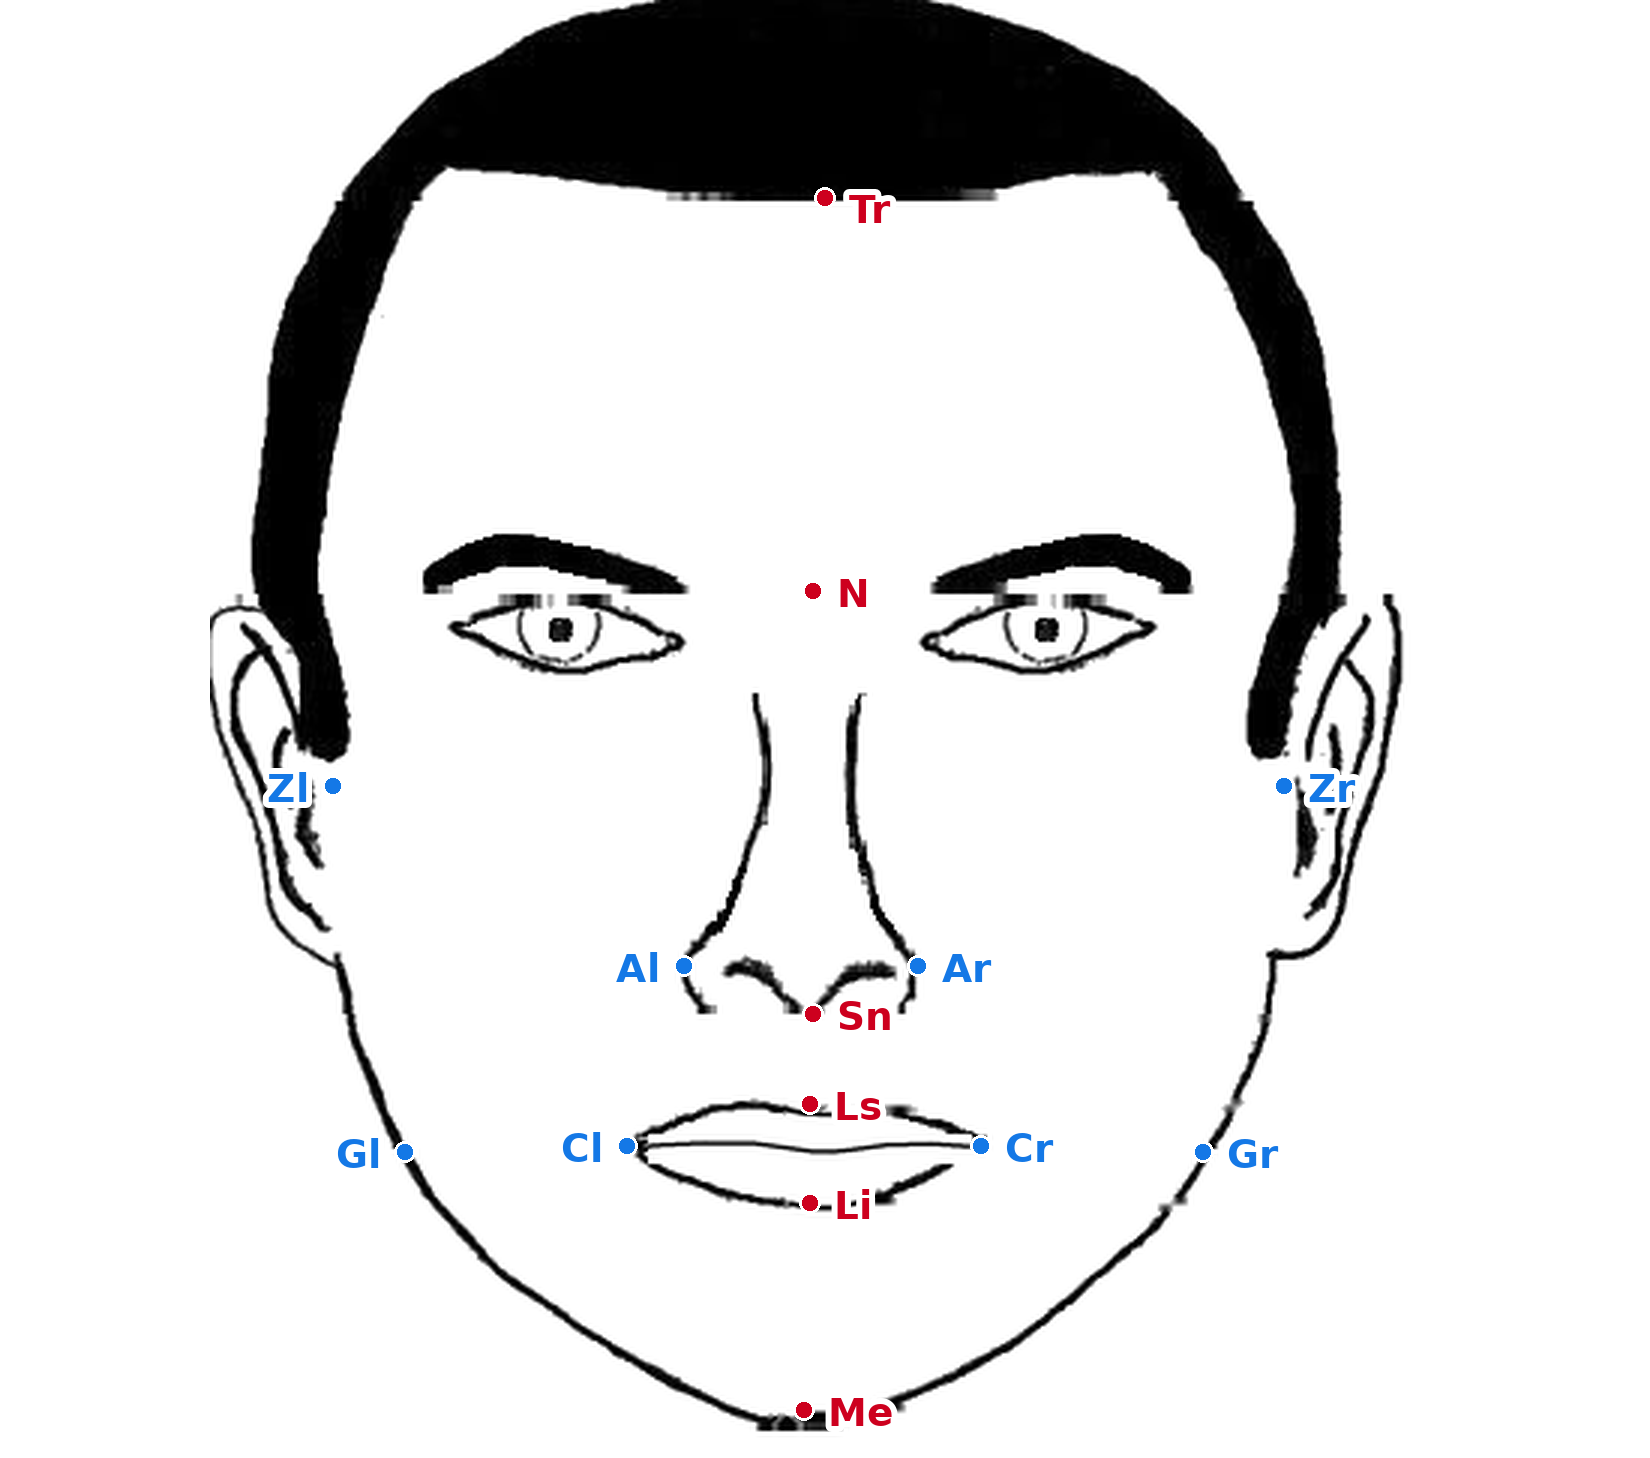
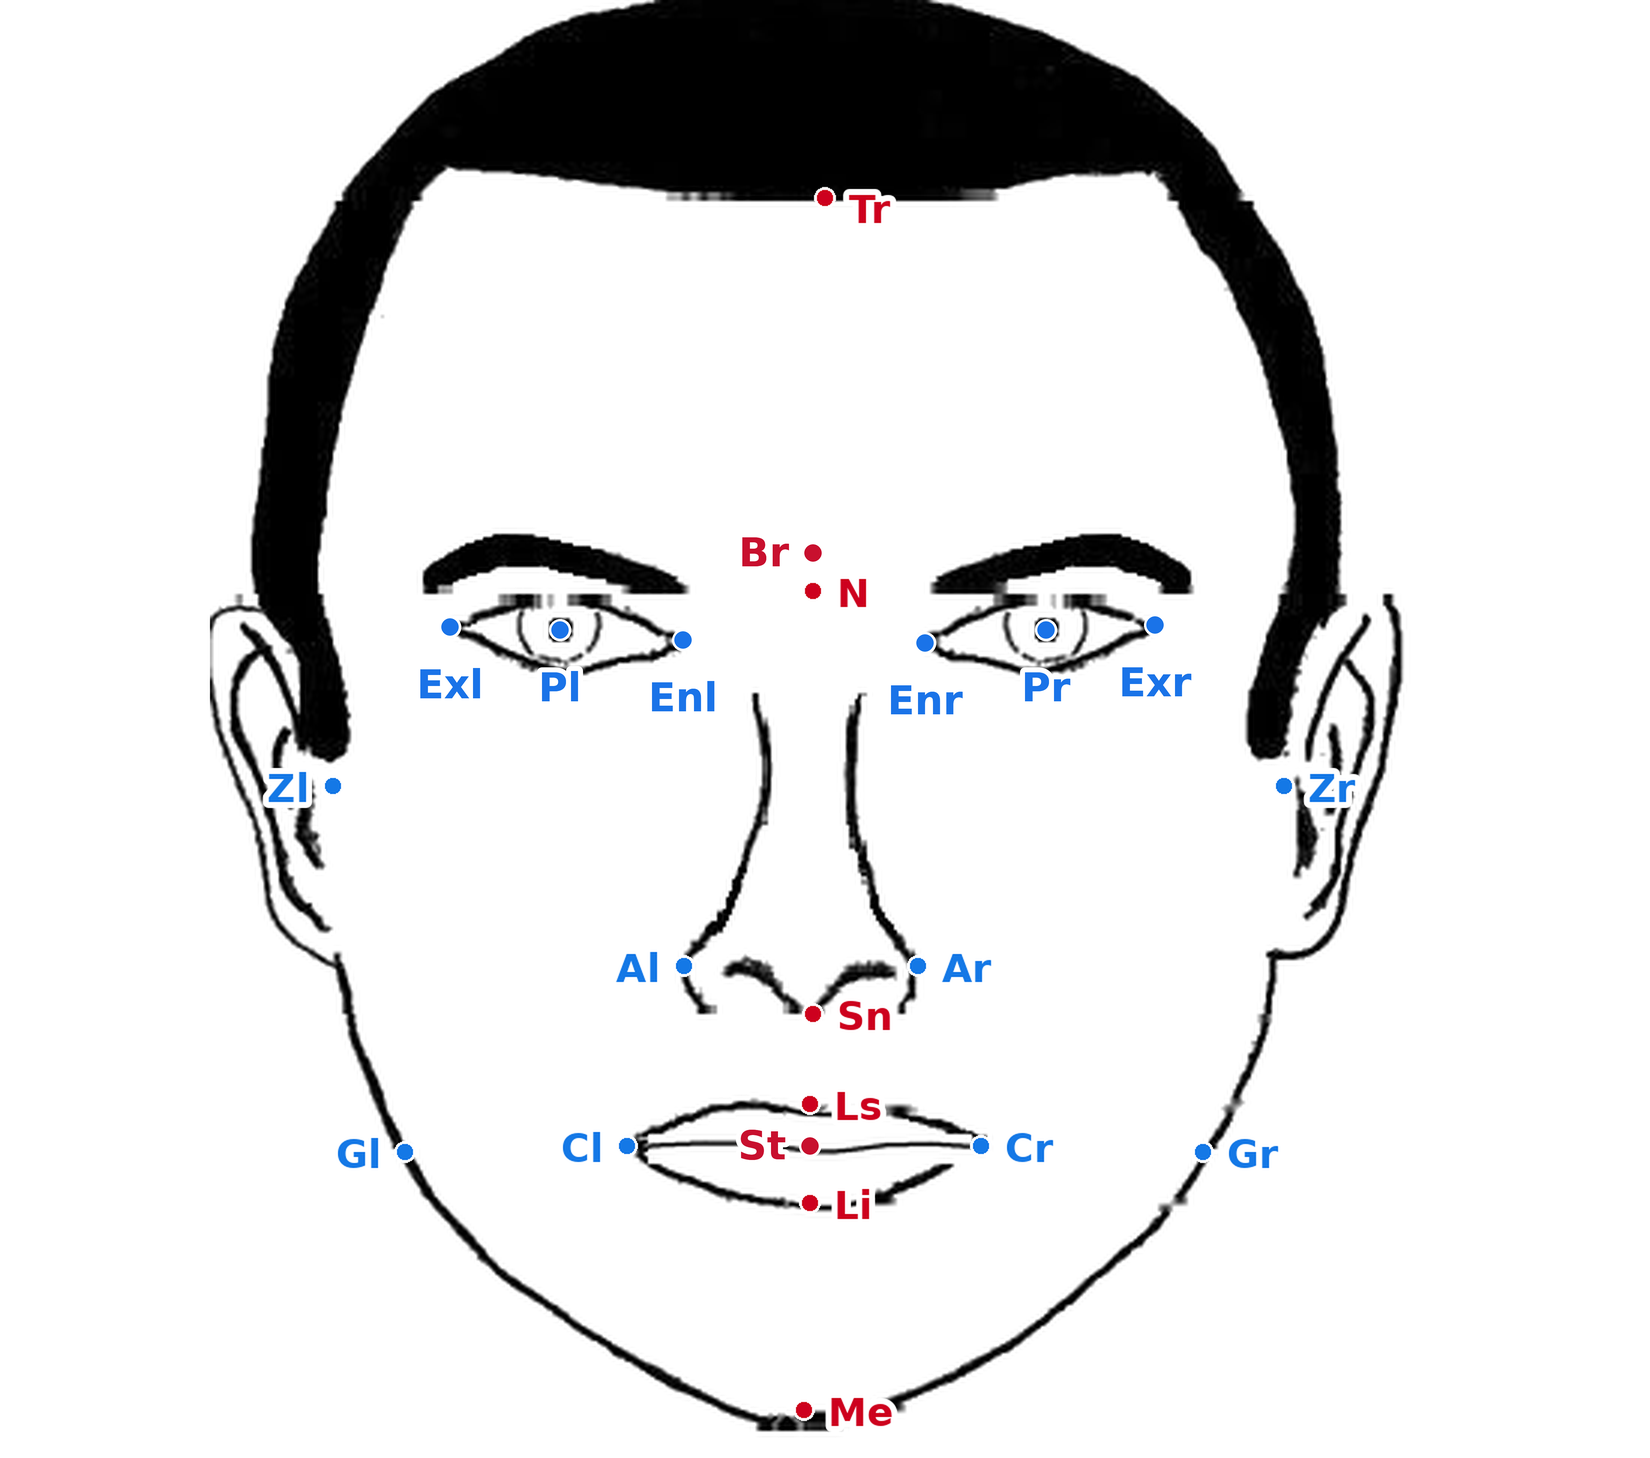
Add files via upload

diff --git a/tool.html b/tool.html
@@ -279,7 +279,6 @@ html[dir=rtl] .lm-side{direction:rtl}
   <section id="step2" aria-live="polite">
     <div class="tool-eyebrow" data-i18n="s2_eyebrow">Step 2 · Landmarks</div>
     <h2 class="tool-title" data-i18n="tool_step_adjust_title">Confirm The Landmarks</h2>
-    <p class="tool-text" style="margin-bottom:22px" data-i18n="s2_text"></p>
     <figure class="lm-ref" id="lmRef">
       <div class="lm-ref-main" id="lmRefSvg"></div>
     </figure>
@@ -310,7 +309,6 @@ html[dir=rtl] .lm-side{direction:rtl}
         </div>
       </div>
     </div>
-    <p class="lm-note" style="margin-top:12px" data-i18n="s2_keys_tip"></p>
     <div class="lm-progress" id="lmProgress"></div>
     <div class="tool-nav">
       <button class="btn-ghost" type="button" id="s2Back" data-i18n="tool_back">← Back</button>
@@ -898,31 +896,19 @@ function draw() {
   });
 }
 
-/* reference diagram: a schematic face with all 22 points; the selected one is highlighted */
-const REFPT = { Tr: [150, 56], Br: [150, 113], N: [150, 134], Sn: [150, 234], Ls: [150, 252], St: [150, 261], Li: [150, 271], Me: [150, 334],
-  Pl: [117, 147], Pr: [183, 147], Enl: [133, 148], Enr: [167, 148], Exl: [100, 144], Exr: [200, 144],
-  Zl: [58, 165], Zr: [242, 165], Gl: [80, 270], Gr: [220, 270], Cl: [122, 261], Cr: [178, 261], Al: [133, 223], Ar: [167, 223] };
-const REFLBL = { Tr: [158, 59, 'start'], Br: [158, 116, 'start'], N: [150, 128, 'middle'], Sn: [158, 239, 'start'], Ls: [158, 251, 'start'], St: [158, 263, 'start'], Li: [158, 275, 'start'], Me: [150, 350, 'middle'],
-  Pl: [117, 161, 'middle'], Pr: [183, 161, 'middle'], Enl: [133, 141, 'middle'], Enr: [167, 141, 'middle'], Exl: [93, 147, 'end'], Exr: [207, 147, 'start'],
-  Zl: [50, 168, 'end'], Zr: [250, 168, 'start'], Gl: [72, 274, 'end'], Gr: [228, 274, 'start'], Cl: [114, 264, 'end'], Cr: [186, 264, 'start'], Al: [125, 226, 'end'], Ar: [175, 226, 'start'] };
+/* reference diagram: the supplied labeled face image (landmark-reference-labeled.png, same folder as this file).
+   Coordinates are in image pixels (1650 x 1458). Points are only ringed when selected;
+   all 22 points are printed on the image itself. */
+const REF_IMG = 'landmark-reference-labeled.png', REF_W = 1650, REF_H = 1458;
+const REFPT = { Tr: [825, 198], Br: [813, 553], N: [813, 591], Sn: [813, 1014], Ls: [810, 1104], St: [810, 1146], Li: [810, 1202], Me: [804, 1410],
+  Pl: [560, 630], Pr: [1046, 630], Enl: [683, 640], Enr: [925, 643], Exl: [450, 627], Exr: [1155, 625],
+  Zl: [333, 786], Zr: [1284, 786], Gl: [405, 1152], Gr: [1203, 1152], Cl: [627, 1146], Cr: [981, 1146], Al: [684, 966], Ar: [918, 966] };
 function renderRef() {
   const box = $('lmRefSvg'); if (!box || !s2) return;
   const cur = LM[s2.sel].id;
-  const art = `<path d="M150 334 C118 334 92 306 80 270 C68 236 58 200 58 160 C58 92 96 36 150 36 C204 36 242 92 242 160 C242 200 232 236 220 270 C208 306 182 334 150 334 Z" fill="#fff" stroke="#111" stroke-width="2"/>
-    <path d="M70 92 C80 40 120 26 150 26 C180 26 220 40 230 92 C215 64 185 54 150 54 C115 54 85 64 70 92 Z" fill="#111"/>
-    <path d="M57 150 Q40 168 57 200 M243 150 Q260 168 243 200" fill="none" stroke="#111" stroke-width="1.6"/>
-    <path d="M94 126 Q114 112 138 123 M162 123 Q186 112 206 126" fill="none" stroke="#111" stroke-width="3" stroke-linecap="round"/>
-    <path d="M100 144 Q116 133 133 148 Q116 157 100 144 Z M200 144 Q184 133 167 148 Q184 157 200 144 Z" fill="none" stroke="#111" stroke-width="1.5"/>
-    <circle cx="117" cy="147" r="4.2" fill="none" stroke="#111" stroke-width="1.3"/><circle cx="183" cy="147" r="4.2" fill="none" stroke="#111" stroke-width="1.3"/>
-    <path d="M147 148 Q143 196 134 222 Q150 236 166 222 Q157 196 153 148" fill="none" stroke="#111" stroke-width="1.4"/>
-    <path d="M122 261 Q150 250 178 261 Q150 284 122 261 Z M122 261 Q150 264 178 261" fill="none" stroke="#111" stroke-width="1.6"/>`;
-  const dots = LM.filter(m => m.id !== cur).map(m => {
-    const [x, y] = REFPT[m.id], [lx, ly, an] = REFLBL[m.id], c = m.e ? '#0f9d76' : m.w ? '#1a73e8' : m.lower ? '#c98a00' : '#222';
-    return `<circle cx="${x}" cy="${y}" r="2.4" fill="${c}"/><text x="${lx}" y="${ly}" text-anchor="${an}" font-size="8" font-weight="700" fill="${c}" stroke="#fff" stroke-width="2.4" paint-order="stroke" font-family="Arial,sans-serif">${m.id}</text>`;
-  }).join('');
-  const [cx, cy] = REFPT[cur], [clx, cly, can] = REFLBL[cur];
-  const on = `<circle cx="${cx}" cy="${cy}" r="9" fill="none" stroke="#e0143c" stroke-width="1.4"/><circle cx="${cx}" cy="${cy}" r="3.6" fill="#e0143c"/><text x="${clx}" y="${cly}" text-anchor="${can}" font-size="10" font-weight="800" fill="#e0143c" stroke="#fff" stroke-width="3" paint-order="stroke" font-family="Arial,sans-serif">${cur}</text>`;
-  box.innerHTML = `<svg viewBox="0 0 300 366" xmlns="http://www.w3.org/2000/svg" role="img" aria-label="Landmark reference">${art}${dots}${on}</svg>`;
+  const [cx, cy] = REFPT[cur];
+  const on = `<circle cx="${cx}" cy="${cy}" r="34" fill="rgba(255,214,0,.28)" stroke="#111" stroke-width="5"/><circle cx="${cx}" cy="${cy}" r="34" fill="none" stroke="#fff" stroke-width="2" stroke-dasharray="6 6"/>`;
+  box.innerHTML = `<svg viewBox="0 0 ${REF_W} ${REF_H}" xmlns="http://www.w3.org/2000/svg" role="img" aria-label="Landmark reference"><image href="${REF_IMG}" x="0" y="0" width="${REF_W}" height="${REF_H}"/>${on}</svg>`;
 }
 
 function renderStep2() {

diff --git a/i18n.js b/i18n.js
@@ -255,7 +255,6 @@ export const dict = {
 
     /* ── Step 2: landmark review ── */
     s2_eyebrow: 'Step 2 · Landmarks',
-    s2_text: "22 points were placed on your face: height, eyes and width. Select a point, then move it with the arrow pad only. Review every point to continue.",
     s2_lower_note: 'Sn · Ls · Li · Me measure your lower third, and Tr and N complete the facial thirds. The width points (cheekbone, jaw corner, mouth corner, nostril edge) move left and right only.',
     s2_detecting: 'Placing landmarks…',
     s2_fallback: 'Automatic detection was not possible — points start at average positions. Review each one carefully.',
@@ -263,7 +262,6 @@ export const dict = {
     s2_step_label: 'Step size',
     s2_progress: '{n} / {total} reviewed',
     s2_confirm: 'Confirm Landmarks →',
-    s2_keys_tip: 'Keyboard arrows also work (hold Shift for coarse).',
     s2_up: 'Move up',
     s2_down: 'Move down',
     s2_left: 'Move left',
@@ -594,7 +592,6 @@ export const dict = {
 
     /* ── الخطوة ٢: مراجعة النقاط ── */
     s2_eyebrow: 'الخطوة ٢ · النقاط المرجعية',
-    s2_text: "تم وضع ٢٢ نقطة على وجهك: الارتفاع والعينان والعرض. اختر نقطة ثم حرّكها بلوحة الأسهم فقط. راجع كل نقطة للمتابعة.",
     s2_lower_note: 'النقاط Sn · Ls · Li · Me تقيس الثلث السفلي، أما Tr وN فتكمّلان أثلاث الوجه. نقاط العرض (الوجنة وزاوية الفك وزاوية الفم وحافة المنخر) تتحرك يميناً ويساراً فقط.',
     s2_detecting: 'جارٍ وضع النقاط…',
     s2_fallback: 'تعذّر الكشف التلقائي — بدأت النقاط من مواضع متوسطة. راجع كل نقطة بعناية.',
@@ -602,7 +599,6 @@ export const dict = {
     s2_step_label: 'حجم الخطوة',
     s2_progress: 'تمت مراجعة {n} / {total}',
     s2_confirm: 'تأكيد النقاط ←',
-    s2_keys_tip: 'أسهم لوحة المفاتيح تعمل أيضاً (اضغط Shift للخطوة الكبيرة).',
     s2_up: 'تحريك للأعلى',
     s2_down: 'تحريك للأسفل',
     s2_left: 'تحريك لليسار',
